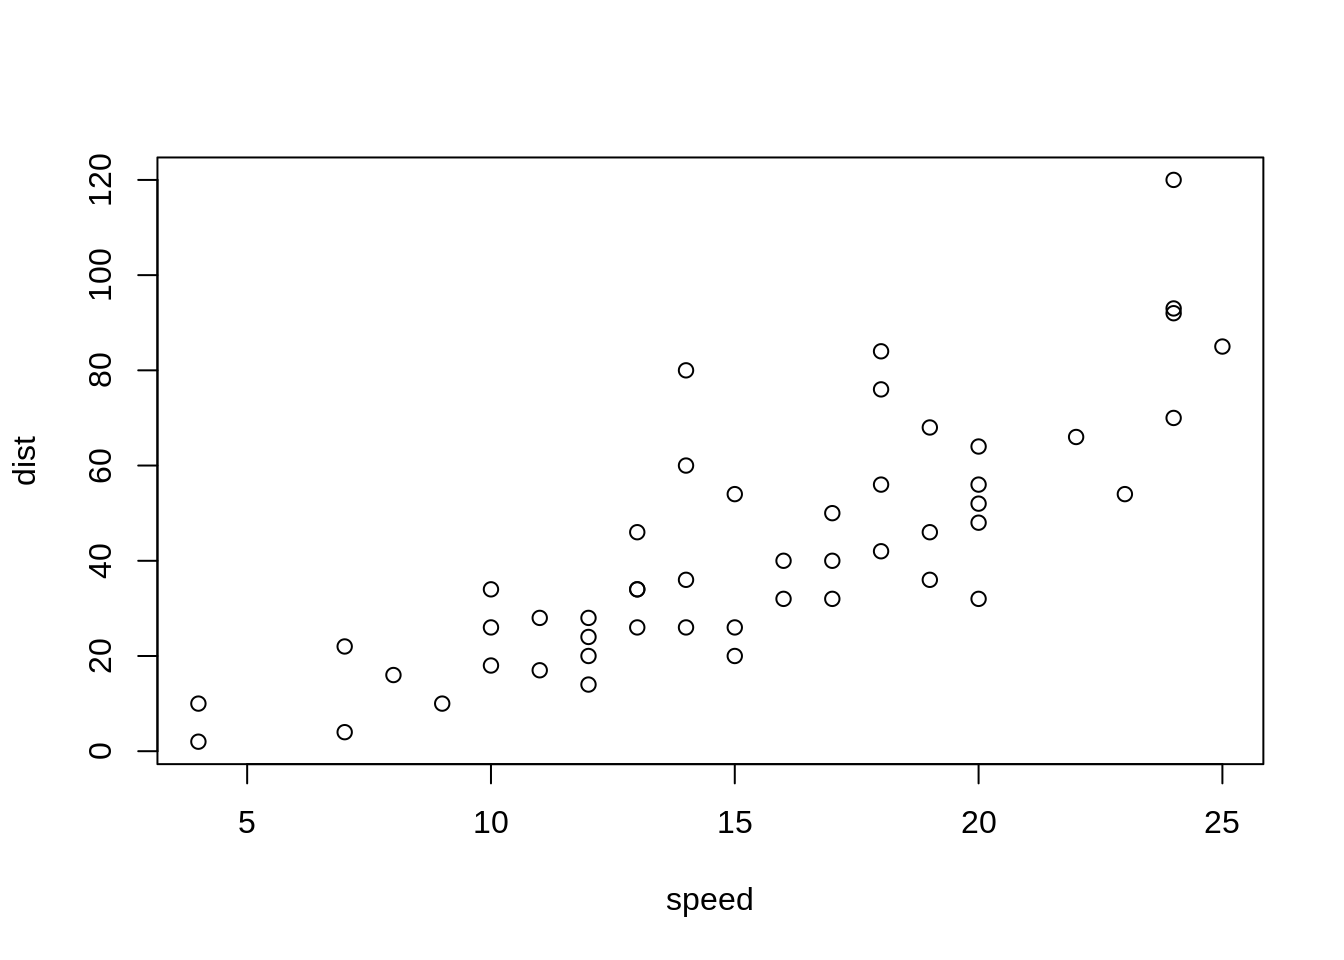
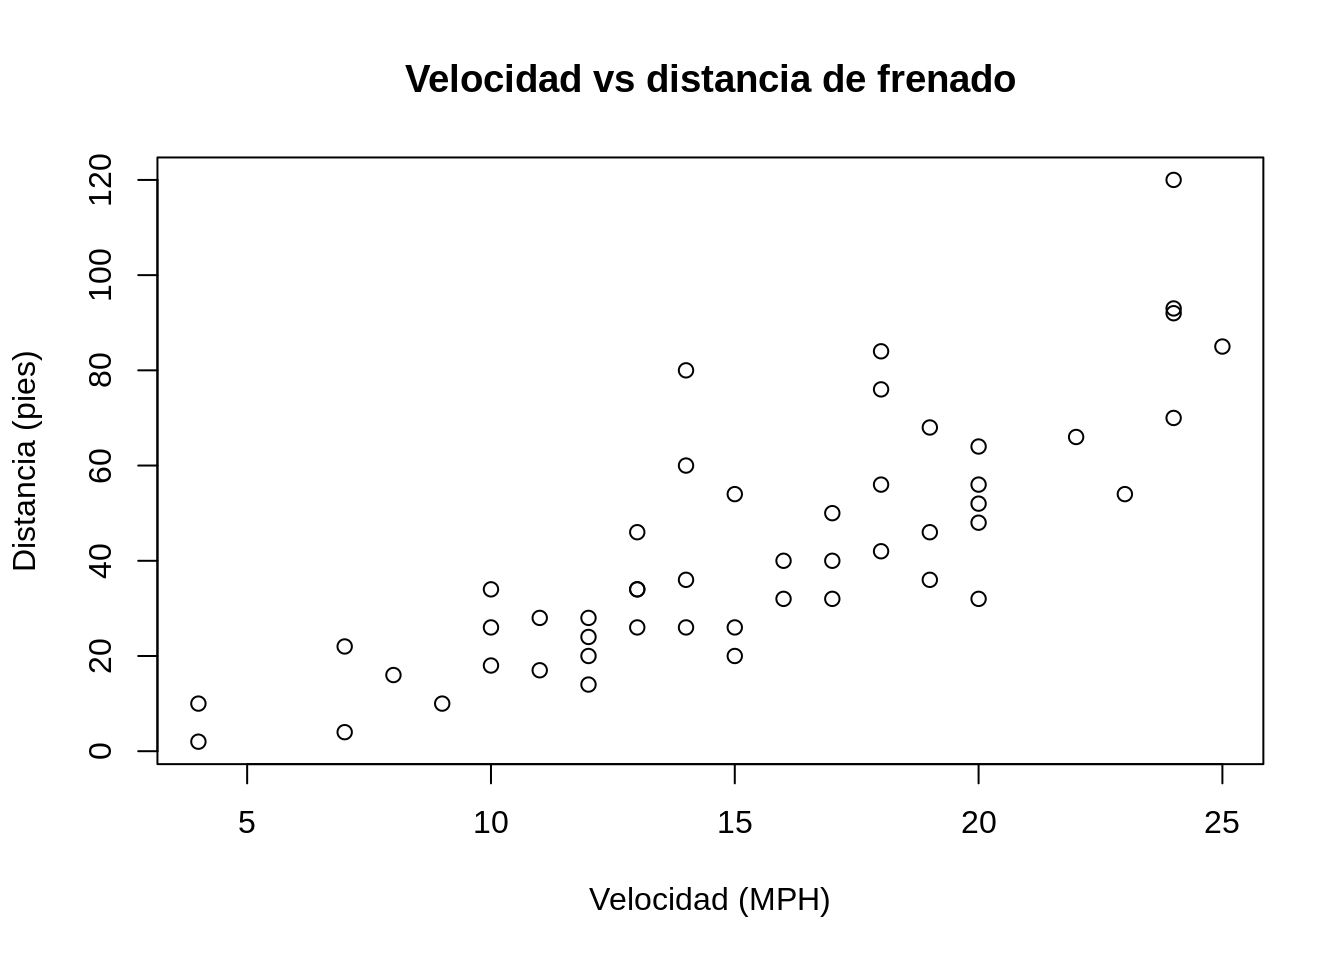
Modificar ejemplo de bloque de código

Changed region(s): [[0.2812, 0.0625, 0.75, 0.0938], [0.4375, 0.9062, 0.625, 0.9688], [0.0, 0.375, 0.0312, 0.5938]]

diff --git a/docs/06-quarto.html b/docs/06-quarto.html
@@ -352,9 +352,20 @@ format:
 <h3 data-number="6.4.3" class="anchored" data-anchor-id="fragmentos-de-código-en-r-u-otro-lenguaje-de-programación"><span class="header-section-number">6.4.3</span> Fragmentos de código en R (u otro lenguaje de programación)</h3>
 <p>Los bloques (<em>chunks</em>) de código en R se identifican con <code>{r}</code> y diferentes opciones identificadas con <code>#|</code>. Los bloques de otros lenguajes de programación se identifican con <code>{python}</code> y <code>{julia}</code>, por ejemplo.</p>
 <p>El siguiente es un ejemplo de bloque de código en R y su salida:</p>
+<div class="sourceCode" id="cb4"><pre class="sourceCode md code-with-copy"><code class="sourceCode markdown"><span id="cb4-1"><a href="#cb4-1" aria-hidden="true" tabindex="-1"></a><span class="in">```{r}</span></span>
+<span id="cb4-2"><a href="#cb4-2" aria-hidden="true" tabindex="-1"></a><span class="co">#| label: graficar-cars</span></span>
+<span id="cb4-3"><a href="#cb4-3" aria-hidden="true" tabindex="-1"></a><span class="co">#| include: true</span></span>
+<span id="cb4-4"><a href="#cb4-4" aria-hidden="true" tabindex="-1"></a><span class="co">#| echo: false</span></span>
+<span id="cb4-5"><a href="#cb4-5" aria-hidden="true" tabindex="-1"></a></span>
+<span id="cb4-6"><a href="#cb4-6" aria-hidden="true" tabindex="-1"></a><span class="fu">plot</span>(</span>
+<span id="cb4-7"><a href="#cb4-7" aria-hidden="true" tabindex="-1"></a>  <span class="at">x =</span> cars<span class="sc">$</span>speed,</span>
+<span id="cb4-8"><a href="#cb4-8" aria-hidden="true" tabindex="-1"></a>  <span class="at">y =</span> cars<span class="sc">$</span>dist,</span>
+<span id="cb4-9"><a href="#cb4-9" aria-hidden="true" tabindex="-1"></a>  <span class="at">main =</span> <span class="st">"Velocidad vs distancia de frenado"</span>,</span>
+<span id="cb4-10"><a href="#cb4-10" aria-hidden="true" tabindex="-1"></a>  <span class="at">xlab =</span> <span class="st">"Velocidad (MPH)"</span>,</span>
+<span id="cb4-11"><a href="#cb4-11" aria-hidden="true" tabindex="-1"></a>  <span class="at">ylab =</span> <span class="st">"Distancia (pies)"</span></span>
+<span id="cb4-12"><a href="#cb4-12" aria-hidden="true" tabindex="-1"></a>)</span>
+<span id="cb4-13"><a href="#cb4-13" aria-hidden="true" tabindex="-1"></a><span class="in">```</span></span></code><button title="Copy to Clipboard" class="code-copy-button"><i class="bi"></i></button></pre></div>
 <div class="cell">
-<div class="sourceCode cell-code" id="cb4"><pre class="sourceCode r code-with-copy"><code class="sourceCode r"><span id="cb4-1"><a href="#cb4-1" aria-hidden="true" tabindex="-1"></a><span class="fu">library</span>(stats)</span>
-<span id="cb4-2"><a href="#cb4-2" aria-hidden="true" tabindex="-1"></a><span class="fu">plot</span>(cars)</span></code><button title="Copy to Clipboard" class="code-copy-button"><i class="bi"></i></button></pre></div>
 <div class="cell-output-display">
 <p><img src="06-quarto_files/figure-html/graficar-cars-1.png" class="img-fluid" width="672"></p>
 </div>
